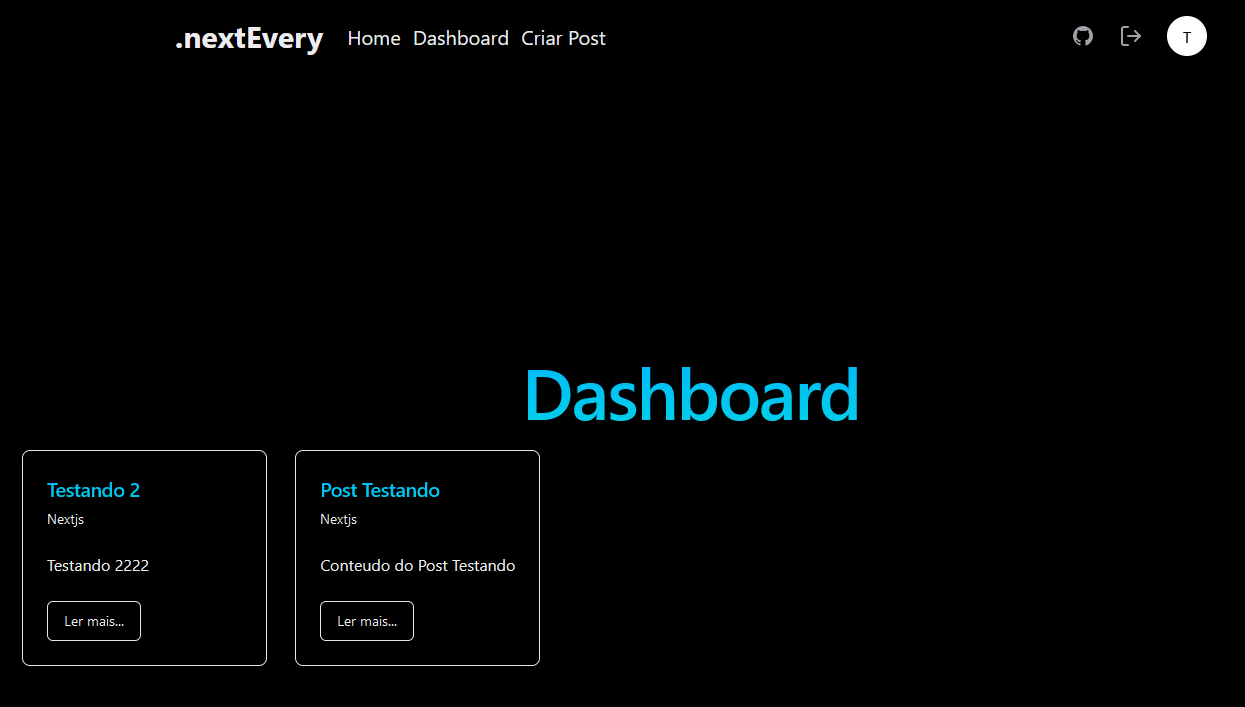
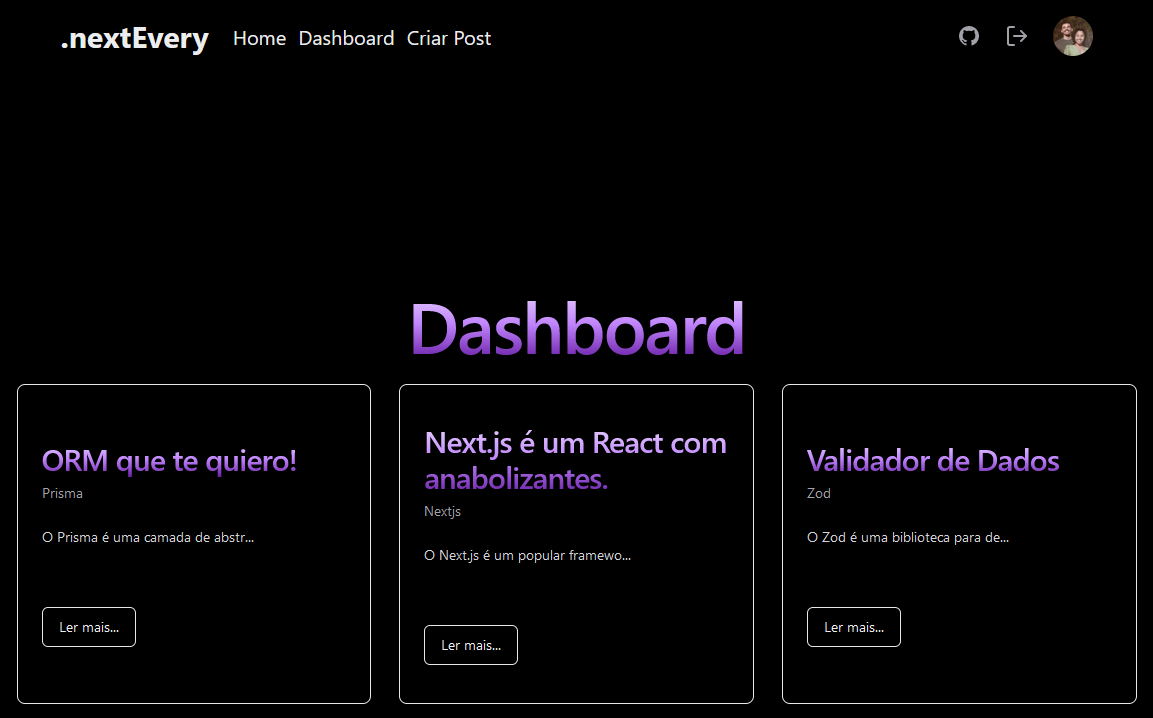
Created the dropdown component

diff --git a/components/shared/Navbar.tsx b/components/shared/Navbar.tsx
@@ -5,43 +5,7 @@ import {
   NavbarBrand,
   NavbarItem,
 } from "@nextui-org/navbar";
-import {
-  Airplay,
-  AlignJustify,
-  Cloud,
-  CreditCard,
-  DoorOpen,
-  DoorOpenIcon,
-  Github,
-  Home,
-  Keyboard,
-  LifeBuoy,
-  LogOut,
-  Mail,
-  MessageSquare,
-  Plus,
-  PlusCircle,
-  Settings,
-  Twitter,
-  User,
-  UserPlus,
-  Users,
-} from "lucide-react";
-
-import {
-  DropdownMenu,
-  DropdownMenuContent,
-  DropdownMenuGroup,
-  DropdownMenuItem,
-  DropdownMenuLabel,
-  DropdownMenuPortal,
-  DropdownMenuSeparator,
-  DropdownMenuShortcut,
-  DropdownMenuSub,
-  DropdownMenuSubContent,
-  DropdownMenuSubTrigger,
-  DropdownMenuTrigger,
-} from "@/components/ui/dropdown-menu";
+import { LogOut } from "lucide-react";
 import { Link } from "@nextui-org/link";
 import NextLink from "next/link";
 import { siteConfig } from "@/config/site";
@@ -52,6 +16,7 @@ import { Button } from "../ui/button";
 import { GithubIcon } from "@/config/icons";
 import { Avatar, AvatarFallback, AvatarImage } from "../ui/avatar";
 import MaxWidthWrapper from "../MaxWidthWrapper";
+import Dropdown from "../Dropdown";
 
 export const Navbar = () => {
   const router = useRouter();
@@ -152,76 +117,7 @@ export const Navbar = () => {
               </Link>
             )}
           </NavbarItem>
-          <DropdownMenu>
-            <DropdownMenuTrigger asChild className="sm:hidden text-zinc-400">
-              <AlignJustify />
-            </DropdownMenuTrigger>
-            <DropdownMenuContent className="w-56 bg-black">
-              <DropdownMenuLabel>.nextEvery</DropdownMenuLabel>
-              <DropdownMenuSeparator />
-              <DropdownMenuGroup>
-                <DropdownMenuItem>
-                  <Home className="mr-2 h-4 w-4" />
-                  <NextLink href="/">Pagina Inicial</NextLink>
-                </DropdownMenuItem>
-                {dataSession ? (
-                  <DropdownMenuItem>
-                    <User className="mr-2 h-4 w-4" />
-                    <NextLink href="/perfil">Perfil</NextLink>
-                  </DropdownMenuItem>
-                ) : (
-                  <DropdownMenuItem>
-                    <User className="mr-2 h-4 w-4" />
-                    <NextLink href="/register">Criar Conta</NextLink>
-                  </DropdownMenuItem>
-                )}
-                <DropdownMenuItem>
-                  <Airplay className="mr-2 h-4 w-4" />
-                  <NextLink href="/dashboard">Dashboard</NextLink>
-                </DropdownMenuItem>
-                <DropdownMenuItem>
-                  <PlusCircle className="mr-2 h-4 w-4" />
-                  <NextLink href="/create">Criar Post</NextLink>
-                </DropdownMenuItem>
-              </DropdownMenuGroup>
-              <DropdownMenuSeparator />
-              <DropdownMenuGroup>
-                <DropdownMenuItem>
-                  <Github className="mr-2 h-4 w-4" />
-                  <NextLink
-                    href="https://github.com/Claudenir-Nojosa"
-                    target="_blank"
-                  >
-                    GitHub
-                  </NextLink>
-                </DropdownMenuItem>
-                <DropdownMenuItem>
-                  <Twitter className="mr-2 h-4 w-4" />
-                  <NextLink href="https://twitter.com/nojosaf" target="_blank">
-                    Twitter
-                  </NextLink>
-                </DropdownMenuItem>
-              </DropdownMenuGroup>
-              <DropdownMenuSeparator />
-              <DropdownMenuItem>
-                {dataSession ? (
-                  <>
-                    <LogOut className="mr-2 h-4 w-4" />
-                    <span className=" cursor-pointer" onClick={handleSignOut}>
-                      Sair
-                    </span>
-                  </>
-                ) : (
-                  <>
-                    <DoorOpenIcon className="mr-2 h-4 w-4" />
-                    <NextLink href="'/login'" target="_blank">
-                      Login
-                    </NextLink>
-                  </>
-                )}
-              </DropdownMenuItem>
-            </DropdownMenuContent>
-          </DropdownMenu>
+          <Dropdown />
         </NavbarContent>
       </NextUINavbar>
     </MaxWidthWrapper>

diff --git a/components/Dropdown.tsx b/components/Dropdown.tsx
@@ -1,0 +1,114 @@
+"use client";
+
+import {
+  Airplay,
+  AlignJustify,
+  DoorOpenIcon,
+  Github,
+  Home,
+  LogOut,
+  PlusCircle,
+  Twitter,
+  User,
+} from "lucide-react";
+
+import {
+  DropdownMenu,
+  DropdownMenuContent,
+  DropdownMenuGroup,
+  DropdownMenuItem,
+  DropdownMenuLabel,
+  DropdownMenuPortal,
+  DropdownMenuSeparator,
+  DropdownMenuShortcut,
+  DropdownMenuSub,
+  DropdownMenuSubContent,
+  DropdownMenuSubTrigger,
+  DropdownMenuTrigger,
+} from "@/components/ui/dropdown-menu";
+import NextLink from "next/link";
+import { useRouter } from "next/navigation";
+import { signOut, useSession } from "next-auth/react";
+
+const Dropdown = () => {
+  const router = useRouter();
+  const handleSignOut = () => {
+    signOut();
+    router.push("/");
+  };
+  const { data: dataSession } = useSession();
+  return (
+    <DropdownMenu>
+      <DropdownMenuTrigger asChild className="sm:hidden text-zinc-400">
+        <AlignJustify />
+      </DropdownMenuTrigger>
+      <DropdownMenuContent className="w-56 bg-black">
+        <DropdownMenuLabel>.nextEvery</DropdownMenuLabel>
+        <DropdownMenuSeparator />
+        <DropdownMenuGroup>
+          <DropdownMenuItem>
+            <Home className="mr-2 h-4 w-4" />
+            <NextLink href="/">Pagina Inicial</NextLink>
+          </DropdownMenuItem>
+          {dataSession ? (
+            <DropdownMenuItem>
+              <User className="mr-2 h-4 w-4" />
+              <NextLink href="/perfil">Perfil</NextLink>
+            </DropdownMenuItem>
+          ) : (
+            <DropdownMenuItem>
+              <User className="mr-2 h-4 w-4" />
+              <NextLink href="/register">Criar Conta</NextLink>
+            </DropdownMenuItem>
+          )}
+          <DropdownMenuItem>
+            <Airplay className="mr-2 h-4 w-4" />
+            <NextLink href="/dashboard">Dashboard</NextLink>
+          </DropdownMenuItem>
+          <DropdownMenuItem>
+            <PlusCircle className="mr-2 h-4 w-4" />
+            <NextLink href="/create">Criar Post</NextLink>
+          </DropdownMenuItem>
+        </DropdownMenuGroup>
+        <DropdownMenuSeparator />
+        <DropdownMenuGroup>
+          <DropdownMenuItem>
+            <Github className="mr-2 h-4 w-4" />
+            <NextLink
+              href="https://github.com/Claudenir-Nojosa"
+              target="_blank"
+            >
+              GitHub
+            </NextLink>
+          </DropdownMenuItem>
+          <DropdownMenuItem>
+            <Twitter className="mr-2 h-4 w-4" />
+            <NextLink href="https://twitter.com/nojosaf" target="_blank">
+              Twitter
+            </NextLink>
+          </DropdownMenuItem>
+        </DropdownMenuGroup>
+        <DropdownMenuSeparator />
+        <DropdownMenuItem>
+          {dataSession ? (
+            <>
+              <LogOut className="mr-2 h-4 w-4" />
+              <span className=" cursor-pointer" onClick={handleSignOut}>
+                Sair
+              </span>
+            </>
+          ) : (
+            <>
+              <DoorOpenIcon className="mr-2 h-4 w-4" />
+              <NextLink href="'/login'" target="_blank">
+                Login
+              </NextLink>
+            </>
+          )}
+        </DropdownMenuItem>
+      </DropdownMenuContent>
+    </DropdownMenu>
+  );
+};
+
+export default Dropdown;

diff --git a/app/(root)/blog/[id]/page.tsx b/app/(root)/blog/[id]/page.tsx
@@ -50,7 +50,7 @@ const BlogDetailPage: FC<BlogDetailPageProps> = async ({ params }) => {
           </CardDescription>
         </CardHeader>
         <CardContent>
-          <Textarea className="resize-none min-h-[18rem] text-zinc-300">{post?.content}</Textarea>
+          <Textarea className="resize-none min-h-[18rem] border-none text-zinc-300">{post?.content}</Textarea>
         </CardContent>
         <CardFooter>
           <ButtonAction id={params.id} />

diff --git a/app/page.tsx b/app/page.tsx
@@ -203,7 +203,7 @@ const Dashboard = () => {
                 />
               )}
               <Button
-                className="mt-10 hover:text-zinc-400"
+                className="mt-10 hover:text-zinc-400 rounded-2xl border border-purple-800"
                 variant="outline"
                 onClick={() => router.push("/create")}
               >

diff --git a/components/shared/Primitives.ts b/components/shared/Primitives.ts
@@ -13,7 +13,7 @@ export const title = tv({
 			foreground: "dark:from-[#FFFFFF] dark:to-[#4B4B4B]",
 		},
 		size: {
-			sm: "text-xl lg:text-[50px]",
+			sm: "lg:text-[50px]",
 			md: "text-[2rem] lg:text-3xl leading-9",
 			lg: "text-7xl lg:text-7xl",
 		},
